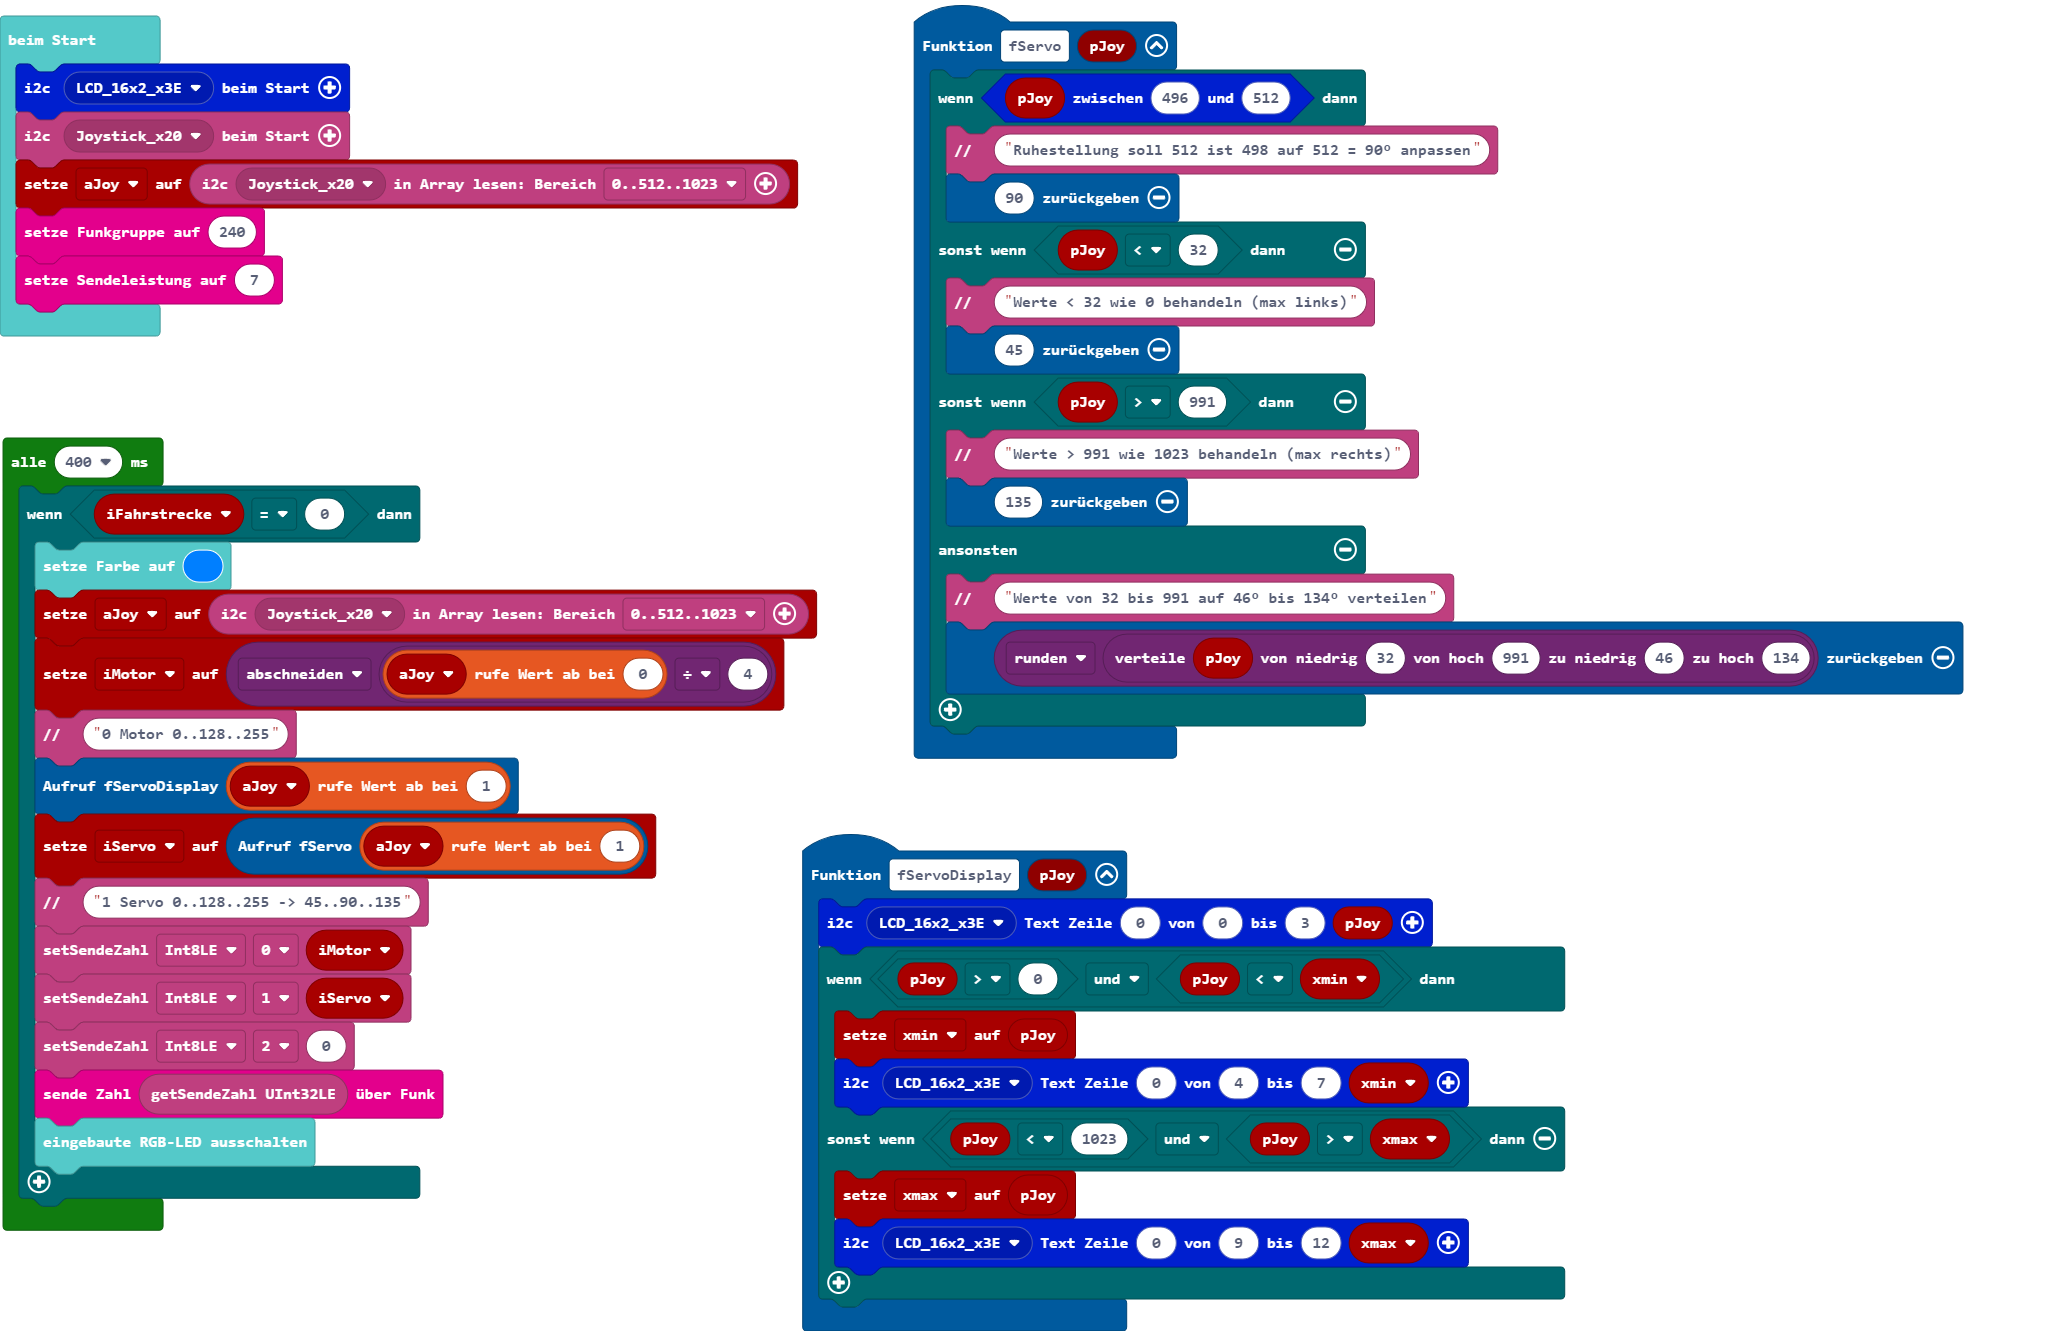
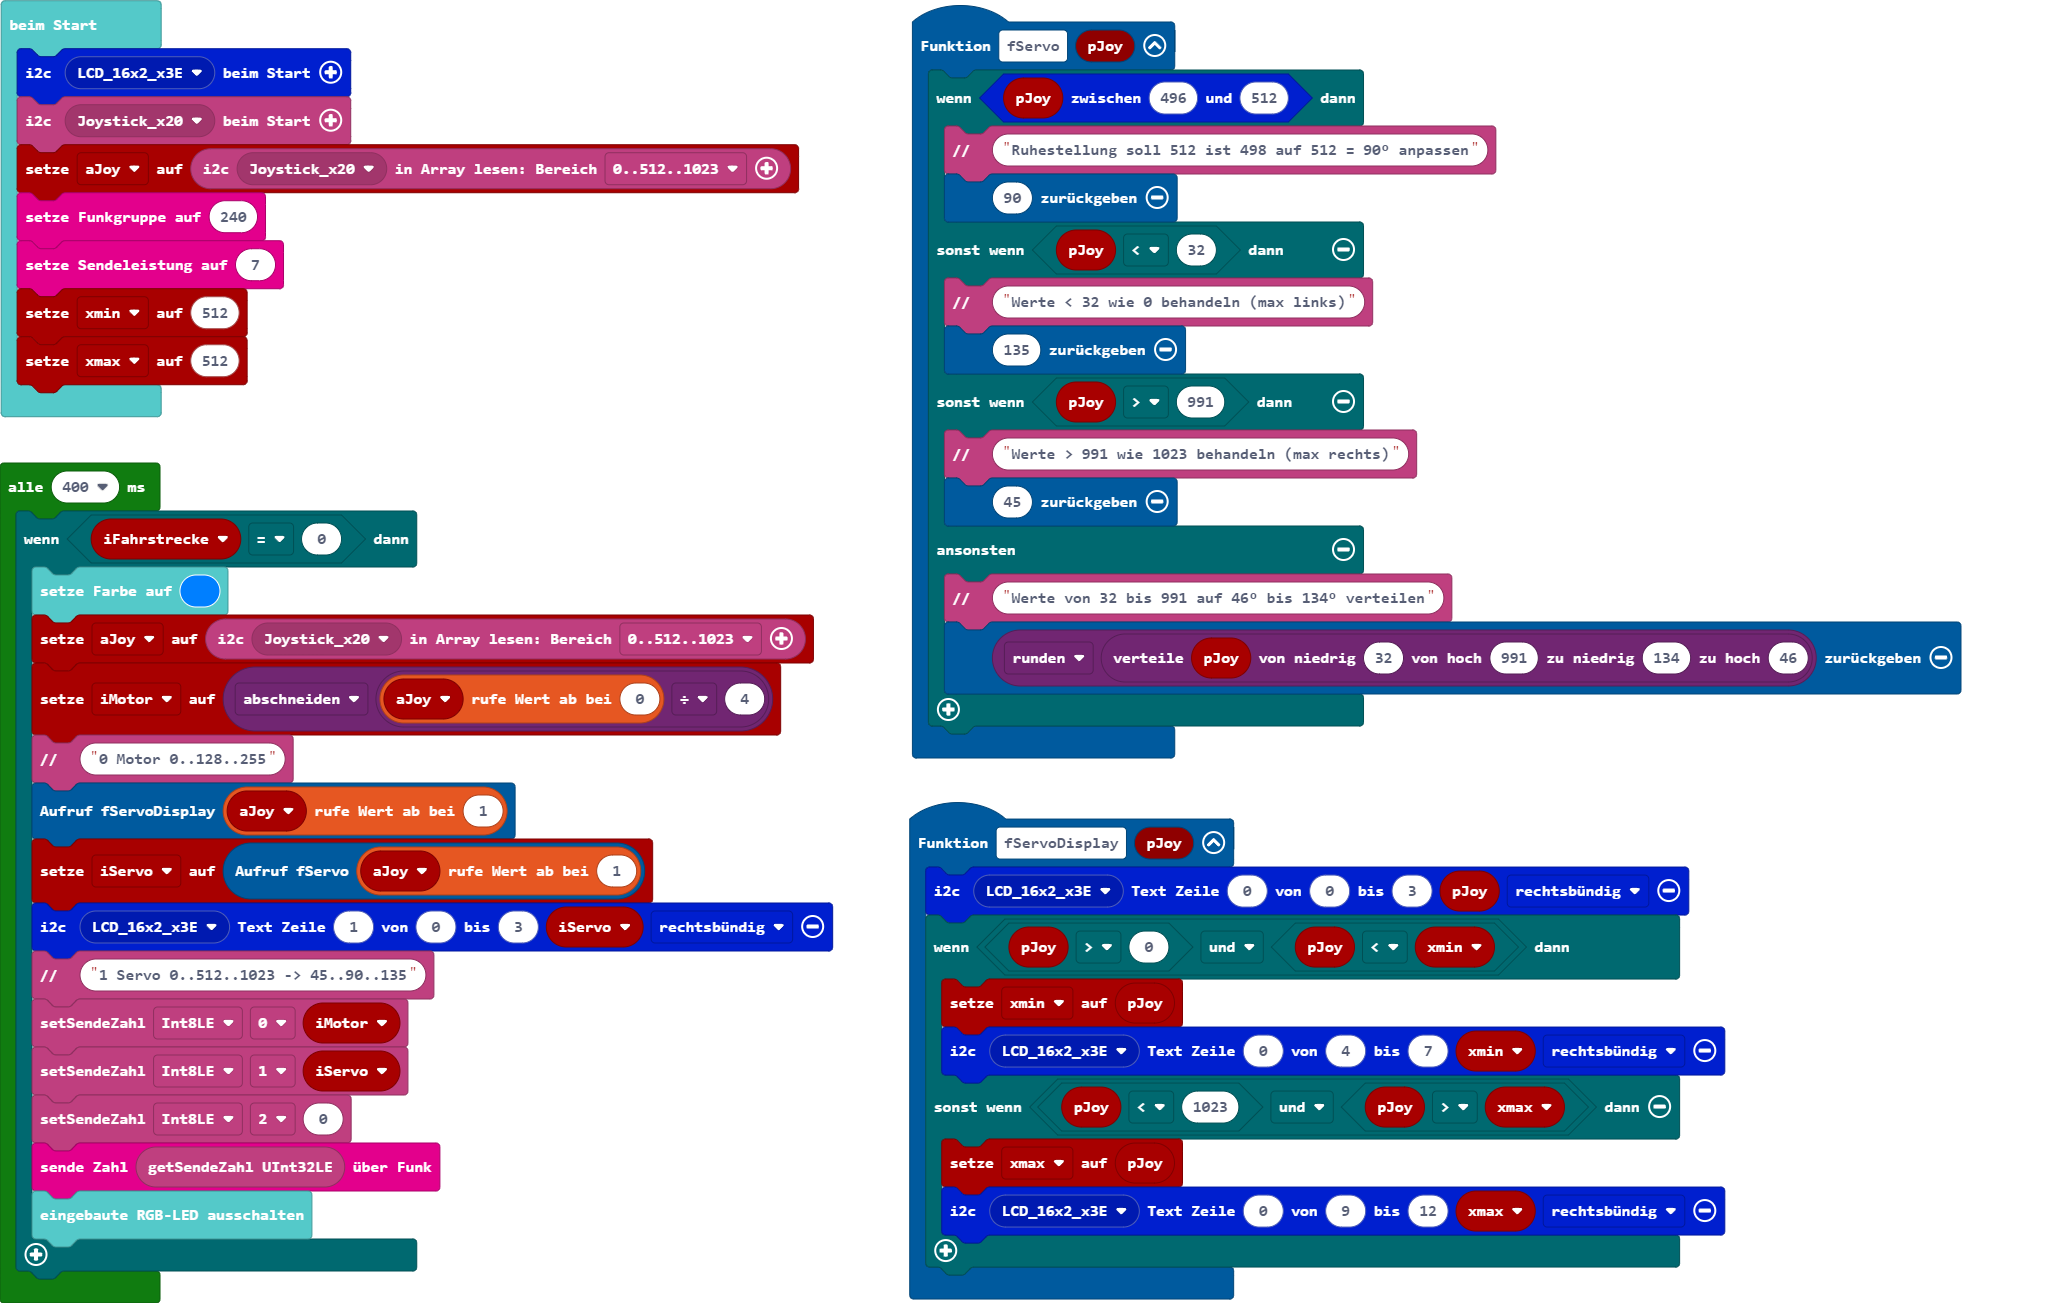
Aktualisiere main.blocks, main.ts

diff --git a/main.ts b/main.ts
@@ -4,23 +4,23 @@ function fServo (pJoy: number) {
         return 90
     } else if (pJoy < 32) {
         qwiicjoystick.comment("Werte < 32 wie 0 behandeln (max links)")
-        return 45
+        return 135
     } else if (pJoy > 991) {
         qwiicjoystick.comment("Werte > 991 wie 1023 behandeln (max rechts)")
-        return 135
+        return 45
     } else {
         qwiicjoystick.comment("Werte von 32 bis 991 auf 46° bis 134° verteilen")
-        return Math.round(Math.map(pJoy, 32, 991, 46, 134))
+        return Math.round(Math.map(pJoy, 32, 991, 134, 46))
     }
 }
 function fServoDisplay (pJoy: number) {
-    lcd16x2rgb.writeText(lcd16x2rgb.lcd16x2_eADDR(lcd16x2rgb.eADDR_LCD.LCD_16x2_x3E), 0, 0, 3, pJoy)
+    lcd16x2rgb.writeText(lcd16x2rgb.lcd16x2_eADDR(lcd16x2rgb.eADDR_LCD.LCD_16x2_x3E), 0, 0, 3, pJoy, lcd16x2rgb.eAlign.right)
     if (pJoy > 0 && pJoy < xmin) {
         xmin = pJoy
-        lcd16x2rgb.writeText(lcd16x2rgb.lcd16x2_eADDR(lcd16x2rgb.eADDR_LCD.LCD_16x2_x3E), 0, 4, 7, xmin)
+        lcd16x2rgb.writeText(lcd16x2rgb.lcd16x2_eADDR(lcd16x2rgb.eADDR_LCD.LCD_16x2_x3E), 0, 4, 7, xmin, lcd16x2rgb.eAlign.right)
     } else if (pJoy < 1023 && pJoy > xmax) {
         xmax = pJoy
-        lcd16x2rgb.writeText(lcd16x2rgb.lcd16x2_eADDR(lcd16x2rgb.eADDR_LCD.LCD_16x2_x3E), 0, 9, 12, xmax)
+        lcd16x2rgb.writeText(lcd16x2rgb.lcd16x2_eADDR(lcd16x2rgb.eADDR_LCD.LCD_16x2_x3E), 0, 9, 12, xmax, lcd16x2rgb.eAlign.right)
     }
 }
 let iServo = 0
@@ -32,6 +32,8 @@ qwiicjoystick.beimStart(qwiicjoystick.qwiicjoystick_eADDR(qwiicjoystick.eADDR.Jo
 let aJoy = qwiicjoystick.readArray(qwiicjoystick.qwiicjoystick_eADDR(qwiicjoystick.eADDR.Joystick_x20), qwiicjoystick.eBereich.A_0_1023)
 radio.setGroup(240)
 radio.setTransmitPower(7)
+xmin = 512
+xmax = 512
 loops.everyInterval(400, function () {
     let iFahrstrecke = 0
     if (iFahrstrecke == 0) {
@@ -41,7 +43,8 @@ loops.everyInterval(400, function () {
         qwiicjoystick.comment("0 Motor 0..128..255")
         fServoDisplay(aJoy[1])
         iServo = fServo(aJoy[1])
-        qwiicjoystick.comment("1 Servo 0..128..255 -> 45..90..135")
+        lcd16x2rgb.writeText(lcd16x2rgb.lcd16x2_eADDR(lcd16x2rgb.eADDR_LCD.LCD_16x2_x3E), 1, 0, 3, iServo, lcd16x2rgb.eAlign.right)
+        qwiicjoystick.comment("1 Servo 0..512..1023 -> 45..90..135")
         qwiicjoystick.setSendeZahl(NumberFormat.Int8LE, qwiicjoystick.eOffset.z0, iMotor)
         qwiicjoystick.setSendeZahl(NumberFormat.Int8LE, qwiicjoystick.eOffset.z1, iServo)
         qwiicjoystick.setSendeZahl(NumberFormat.Int8LE, qwiicjoystick.eOffset.z2, 0)
